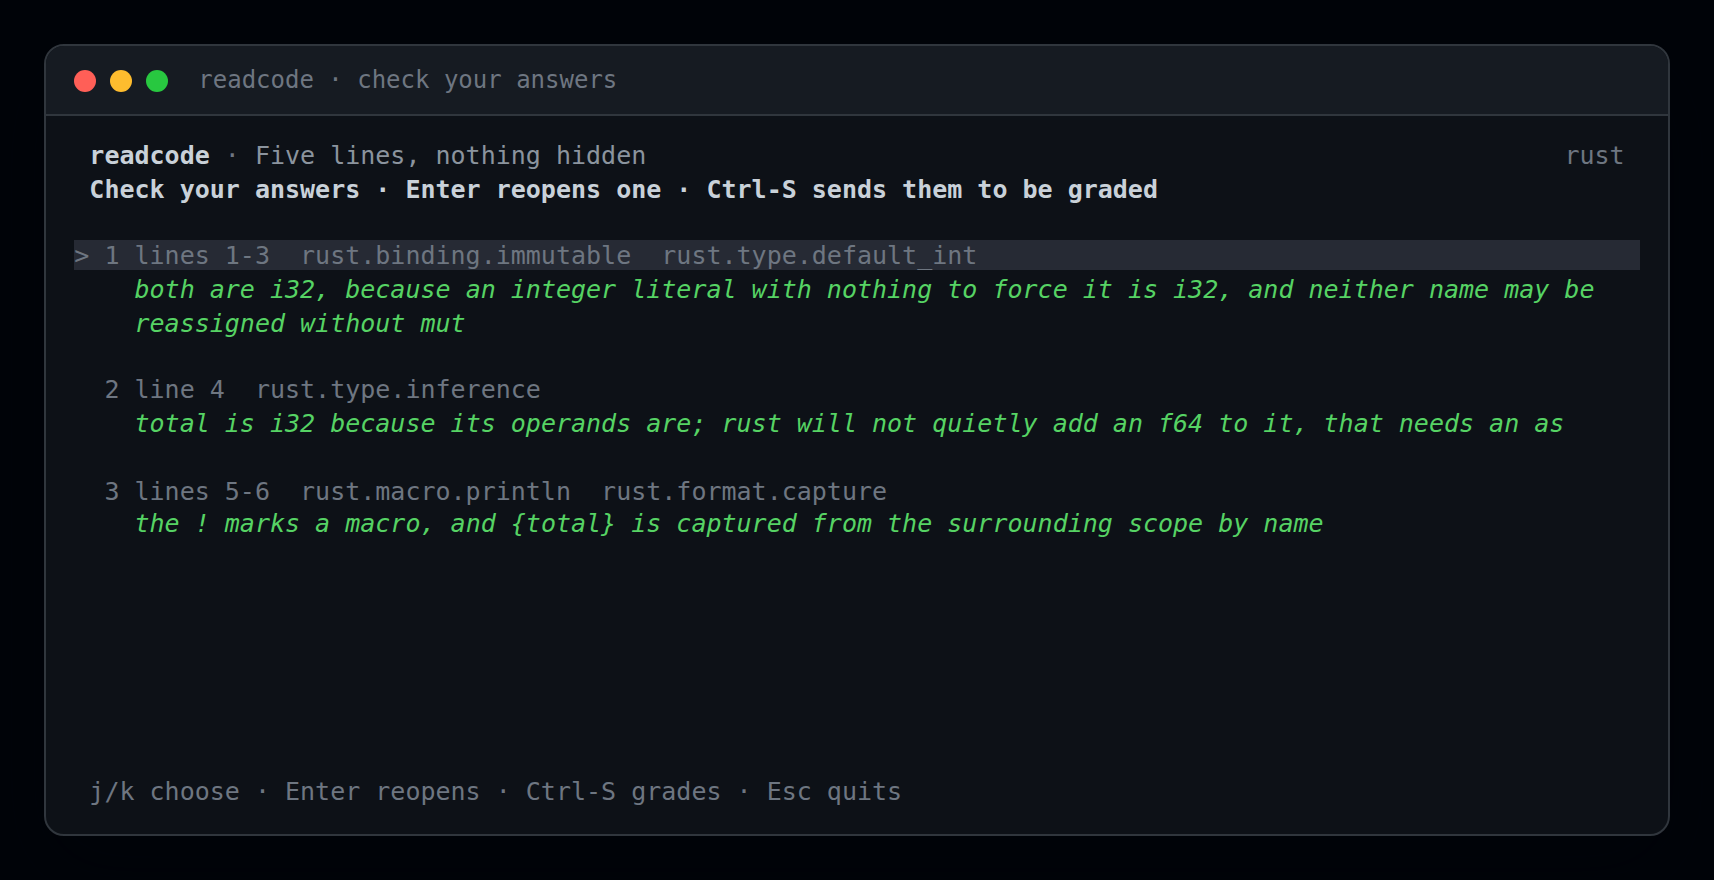
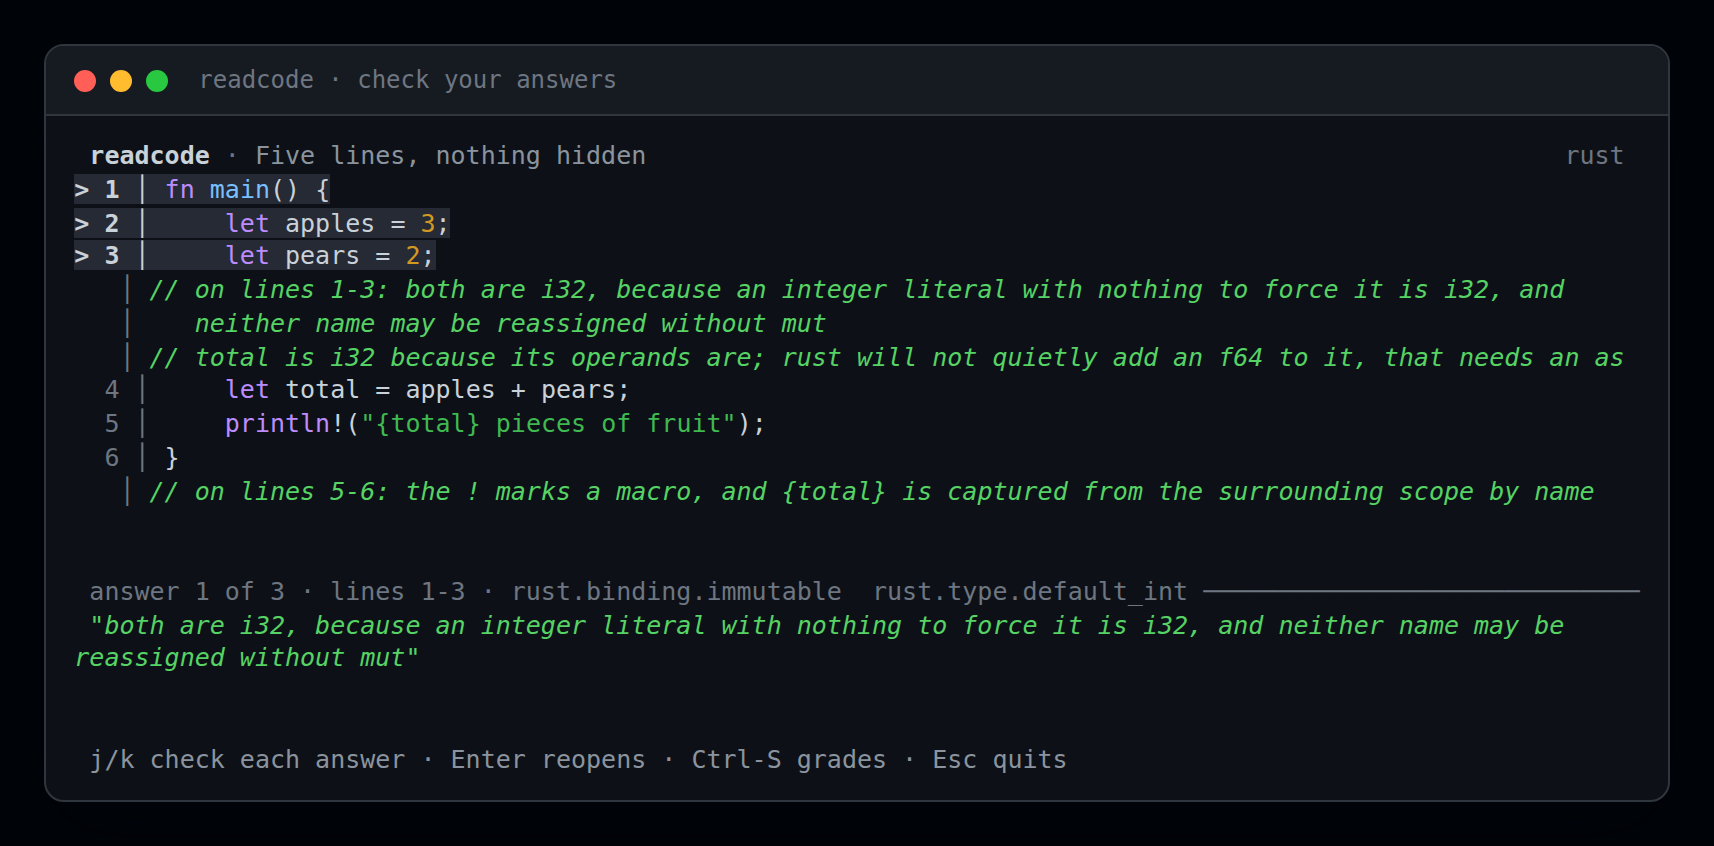
feat: check your answers on the code, not on a separate screen
The check step was a full-screen list of questions and answers, which threw away
the one thing worth looking at: the code the notes sit on. Now it is the same view
as answering — the notes on their lines, the span being checked marked — with the
answer repeated in the strip where the input was, and j/k to walk them.

The "[" answer 2 of 3 "]" title keeps the position visible, the answer is quoted
under it, and the footer no longer repeats keys the strip already lists.

diff --git a/src/tui/draw.rs b/src/tui/draw.rs
@@ -106,8 +106,8 @@ pub fn draw(frame: &mut Frame, app: &App) {
     }
 
     let input_height = match app.phase {
-        Phase::Annotate | Phase::Grading => 6,
-        Phase::Confirm | Phase::Review => 1,
+        Phase::Review => 1,
+        _ => 6,
     };
     let [header, body, ask, footer] = Layout::vertical([
         Constraint::Length(1),
@@ -137,7 +137,9 @@ pub fn draw(frame: &mut Frame, app: &App) {
             frame.render_widget(waiting, ask);
         }
         Phase::Confirm => {
-            draw_confirm(frame, app, body);
+            // Same view as answering, with the code and every note on it.
+            draw_code(frame, app, body, true);
+            draw_check(frame, app, ask);
         }
         Phase::Review => {
             draw_review(frame, app, body);
@@ -385,88 +387,52 @@ fn cursor_text(app: &App) -> Text<'static> {
     Text::from(lines)
 }
 
-/// The answers, before they cost a model call.
+/// The check: the code with every note on it, plus the answer you are looking at.
 ///
-/// Grading is one shot: the reviewer cannot be asked twice, and an answer typed in
-/// a hurry is the one you most want back. So every prompt is listed with what was
-/// written, the selected one can be reopened, and nothing is sent until Ctrl-S.
-fn draw_confirm(frame: &mut Frame, app: &App, area: Rect) {
-    let width = area.width as usize;
-    let mut rows: Vec<Line> = Vec::new();
-    rows.push(Line::from(Span::styled(
-        " Check your answers · Enter reopens one · Ctrl-S sends them to be graded",
-        Theme::title(),
-    )));
-    rows.push(Line::raw(""));
-
-    let mut selected_start = 0usize;
-    for (index, prompt) in app.prompts.iter().enumerate() {
-        let selected = index == app.confirm_index;
-        let entry_start = rows.len();
-        if selected {
-            selected_start = entry_start;
-        }
-
-        let span = if prompt.start == prompt.end {
-            format!("line {}", prompt.start)
-        } else {
-            format!("lines {}-{}", prompt.start, prompt.end)
-        };
-        // The selection is carried by the mark and by the band on the header row
-        // only: banding the answer too put green text on a light background and
-        // made the entry harder to read, not easier.
-        let mark = if selected { ">" } else { " " };
-        let head = format!("{mark} {} {span}", index + 1);
-        let concepts = format!("  {}", prompt.concepts.join("  "));
-        let mut head_spans = vec![
-            Span::styled(head.clone(), Theme::gutter()),
-            Span::styled(concepts.clone(), Theme::hint()),
-        ];
-        if selected {
-            let used = head.chars().count() + concepts.chars().count();
-            head_spans = head_spans
-                .into_iter()
-                .map(|span| {
-                    let style = span.style.patch(Theme::current_bg());
-                    Span::styled(span.content, style)
-                })
-                .collect();
-            // Pad past the pane's width, or the band stops at the last glyph and
-            // reads as a ragged highlight. The paragraph clips the excess.
-            head_spans.push(Span::styled(
-                " ".repeat(width.saturating_sub(used) + 8),
-                Theme::current_bg(),
-            ));
-        }
-        rows.push(Line::from(head_spans));
-
-        let answer = app.answers.get(index).map(String::as_str).unwrap_or("");
-        if answer.trim().is_empty() {
-            rows.push(Line::from(vec![
-                Span::styled("    ".to_string(), Theme::gutter()),
-                Span::styled("— not answered —".to_string(), Theme::dim()),
-            ]));
-        } else {
-            for piece in wrap(answer, width.saturating_sub(6)) {
-                rows.push(Line::from(vec![
-                    Span::styled("    ".to_string(), Theme::gutter()),
-                    Span::styled(piece, Theme::note()),
-                ]));
-            }
-        }
-        rows.push(Line::raw(""));
-    }
-
-    // Keep the selected entry on screen when the list is longer than the pane.
-    let height = area.height as usize;
-    let scroll = if selected_start + 4 >= height {
-        (selected_start + 4).saturating_sub(height)
-    } else {
-        0
+/// A separate list screen meant leaving the code to re-read what you wrote, which
+/// is backwards — the notes sitting above their lines *are* the answers, and the
+/// thing worth checking is whether each note says the right thing about the code
+/// it sits on.
+fn draw_check(frame: &mut Frame, app: &App, area: Rect) {
+    let Some(prompt) = app.current() else {
+        return;
     };
+    let total = app.prompts.len();
+    let title = format!(
+        " answer {} of {total} · {} · {} ",
+        app.confirm_index + 1,
+        prompt.span_label(),
+        prompt.concepts.join("  ")
+    );
+    let block = Block::default()
+        .borders(Borders::TOP)
+        .border_style(Theme::hint())
+        .title(Span::styled(title, Theme::hint()));
+    let inner = block.inner(area);
+    frame.render_widget(block, area);
+
+    let [answer, hint] = Layout::vertical([Constraint::Min(2), Constraint::Length(1)]).areas(inner);
+
+    let text = app
+        .answers
+        .get(app.confirm_index)
+        .map(String::as_str)
+        .unwrap_or("");
+    let body = if text.trim().is_empty() {
+        Line::from(Span::styled(
+            " — not answered; Enter opens it —",
+            Theme::dim(),
+        ))
+    } else {
+        Line::from(Span::styled(format!(" \"{text}\""), Theme::note()))
+    };
+    frame.render_widget(Paragraph::new(body).wrap(Wrap { trim: false }), answer);
     frame.render_widget(
-        Paragraph::new(Text::from(rows)).scroll((scroll as u16, 0)),
-        area,
+        Paragraph::new(Line::from(Span::styled(
+            " j/k check each answer · Enter reopens · Ctrl-S grades · Esc quits",
+            Theme::dim(),
+        ))),
+        hint,
     );
 }
 
@@ -805,7 +771,9 @@ fn draw_footer(frame: &mut Frame, app: &App, area: Rect) {
         Phase::Annotate => {
             " Enter next · Ctrl-J newline · Ctrl-B back · Enter on empty skips · Esc quits"
         }
-        Phase::Confirm => " j/k choose · Enter reopens · Ctrl-S grades · Esc quits",
+        // The check strip already carries these keys; repeating them here is the
+        // kind of footnote that teaches nobody anything.
+        Phase::Confirm => "",
         Phase::Grading => " grading…",
         Phase::Review if app.error.is_some() => " r retries grading · Enter gives up",
         Phase::Review => " j/k scroll · Enter finishes · Esc discards",
@@ -1430,7 +1398,7 @@ mod tests {
     }
 
     #[test]
-    fn the_confirmation_lists_every_answer_before_grading() {
+    fn the_confirmation_shows_the_code_and_the_answer_being_checked() {
         let corpus = Corpus::builtin().unwrap();
         let snippet = corpus.find("rust-006").unwrap();
         let mut app = App::new(
@@ -1440,7 +1408,7 @@ mod tests {
             "check".into(),
         );
         for index in 0..app.prompts.len() {
-            for char_ in format!("answer number {index}").chars() {
+            for char_ in format!("answer {index}").chars() {
                 app.on_key(Key::Char(char_));
             }
             app.on_key(Key::Enter);
@@ -1448,19 +1416,14 @@ mod tests {
         assert_eq!(app.phase, Phase::Confirm);
 
         let screen = screen(&app, 96, 26);
-        for index in 0..app.prompts.len() {
-            assert!(
-                screen.contains(&format!("answer number {index}")),
-                "answer {index} is missing from the check:\n{screen}"
-            );
-        }
-        assert!(screen.contains("Ctrl-S"), "{screen}");
-        // The first entry is selected, and the selection is visible as a band.
-        assert!(
-            screen
-                .lines()
-                .any(|row| row.trim_start().starts_with("> 1")),
-            "{screen}"
-        );
+        // The code is still there, with the notes written on it: those notes are
+        // the answers, so checking them means seeing the code too.
+        assert!(screen.contains("fn main() {"), "{screen}");
+        // The first answer, written into the code as a note over its span.
+        assert!(screen.contains("on lines 1-3: answer 0"), "{screen}");
+        // The answer being checked is repeated where the input used to be.
+        assert!(screen.contains("answer 1 of "), "{screen}");
+        assert!(screen.contains("\"answer 0\""), "{screen}");
+        assert!(screen.contains("Ctrl-S grades"), "{screen}");
     }
 }

diff --git a/src/tui/app.rs b/src/tui/app.rs
@@ -84,7 +84,12 @@ impl<'a> App<'a> {
     }
 
     pub fn current(&self) -> Option<&Prompt> {
-        self.prompts.get(self.index)
+        match self.phase {
+            // Checking answers happens on the code, not on a separate list: the
+            // notes are the answers, so the code has to stay in view.
+            Phase::Confirm => self.prompts.get(self.confirm_index),
+            _ => self.prompts.get(self.index),
+        }
     }
 
     pub fn input_text(&self) -> String {
